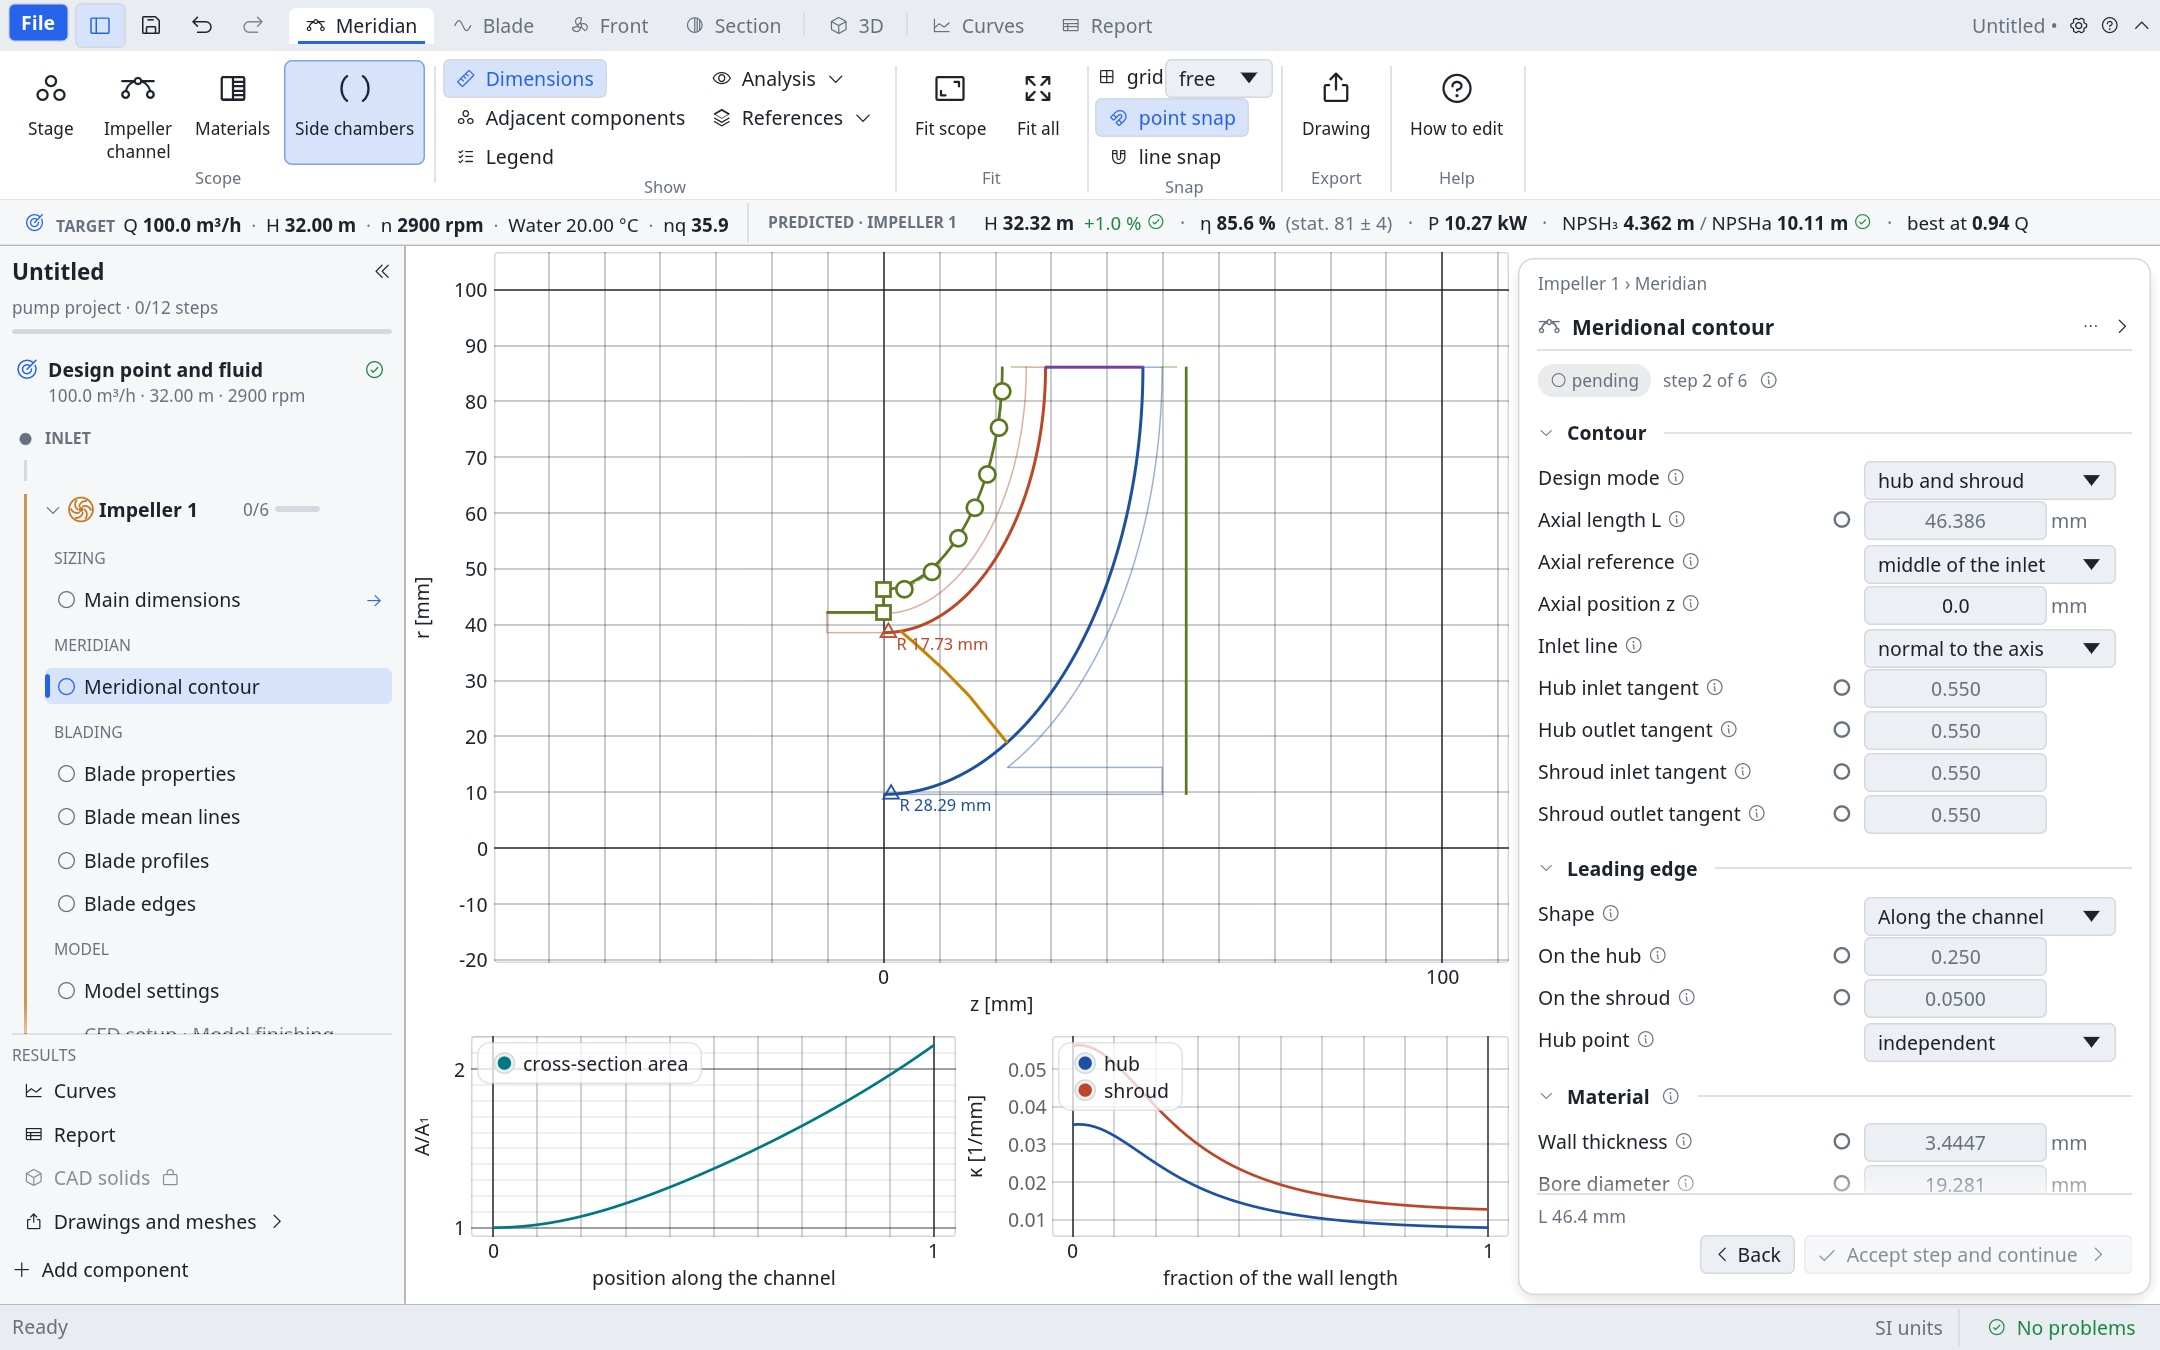
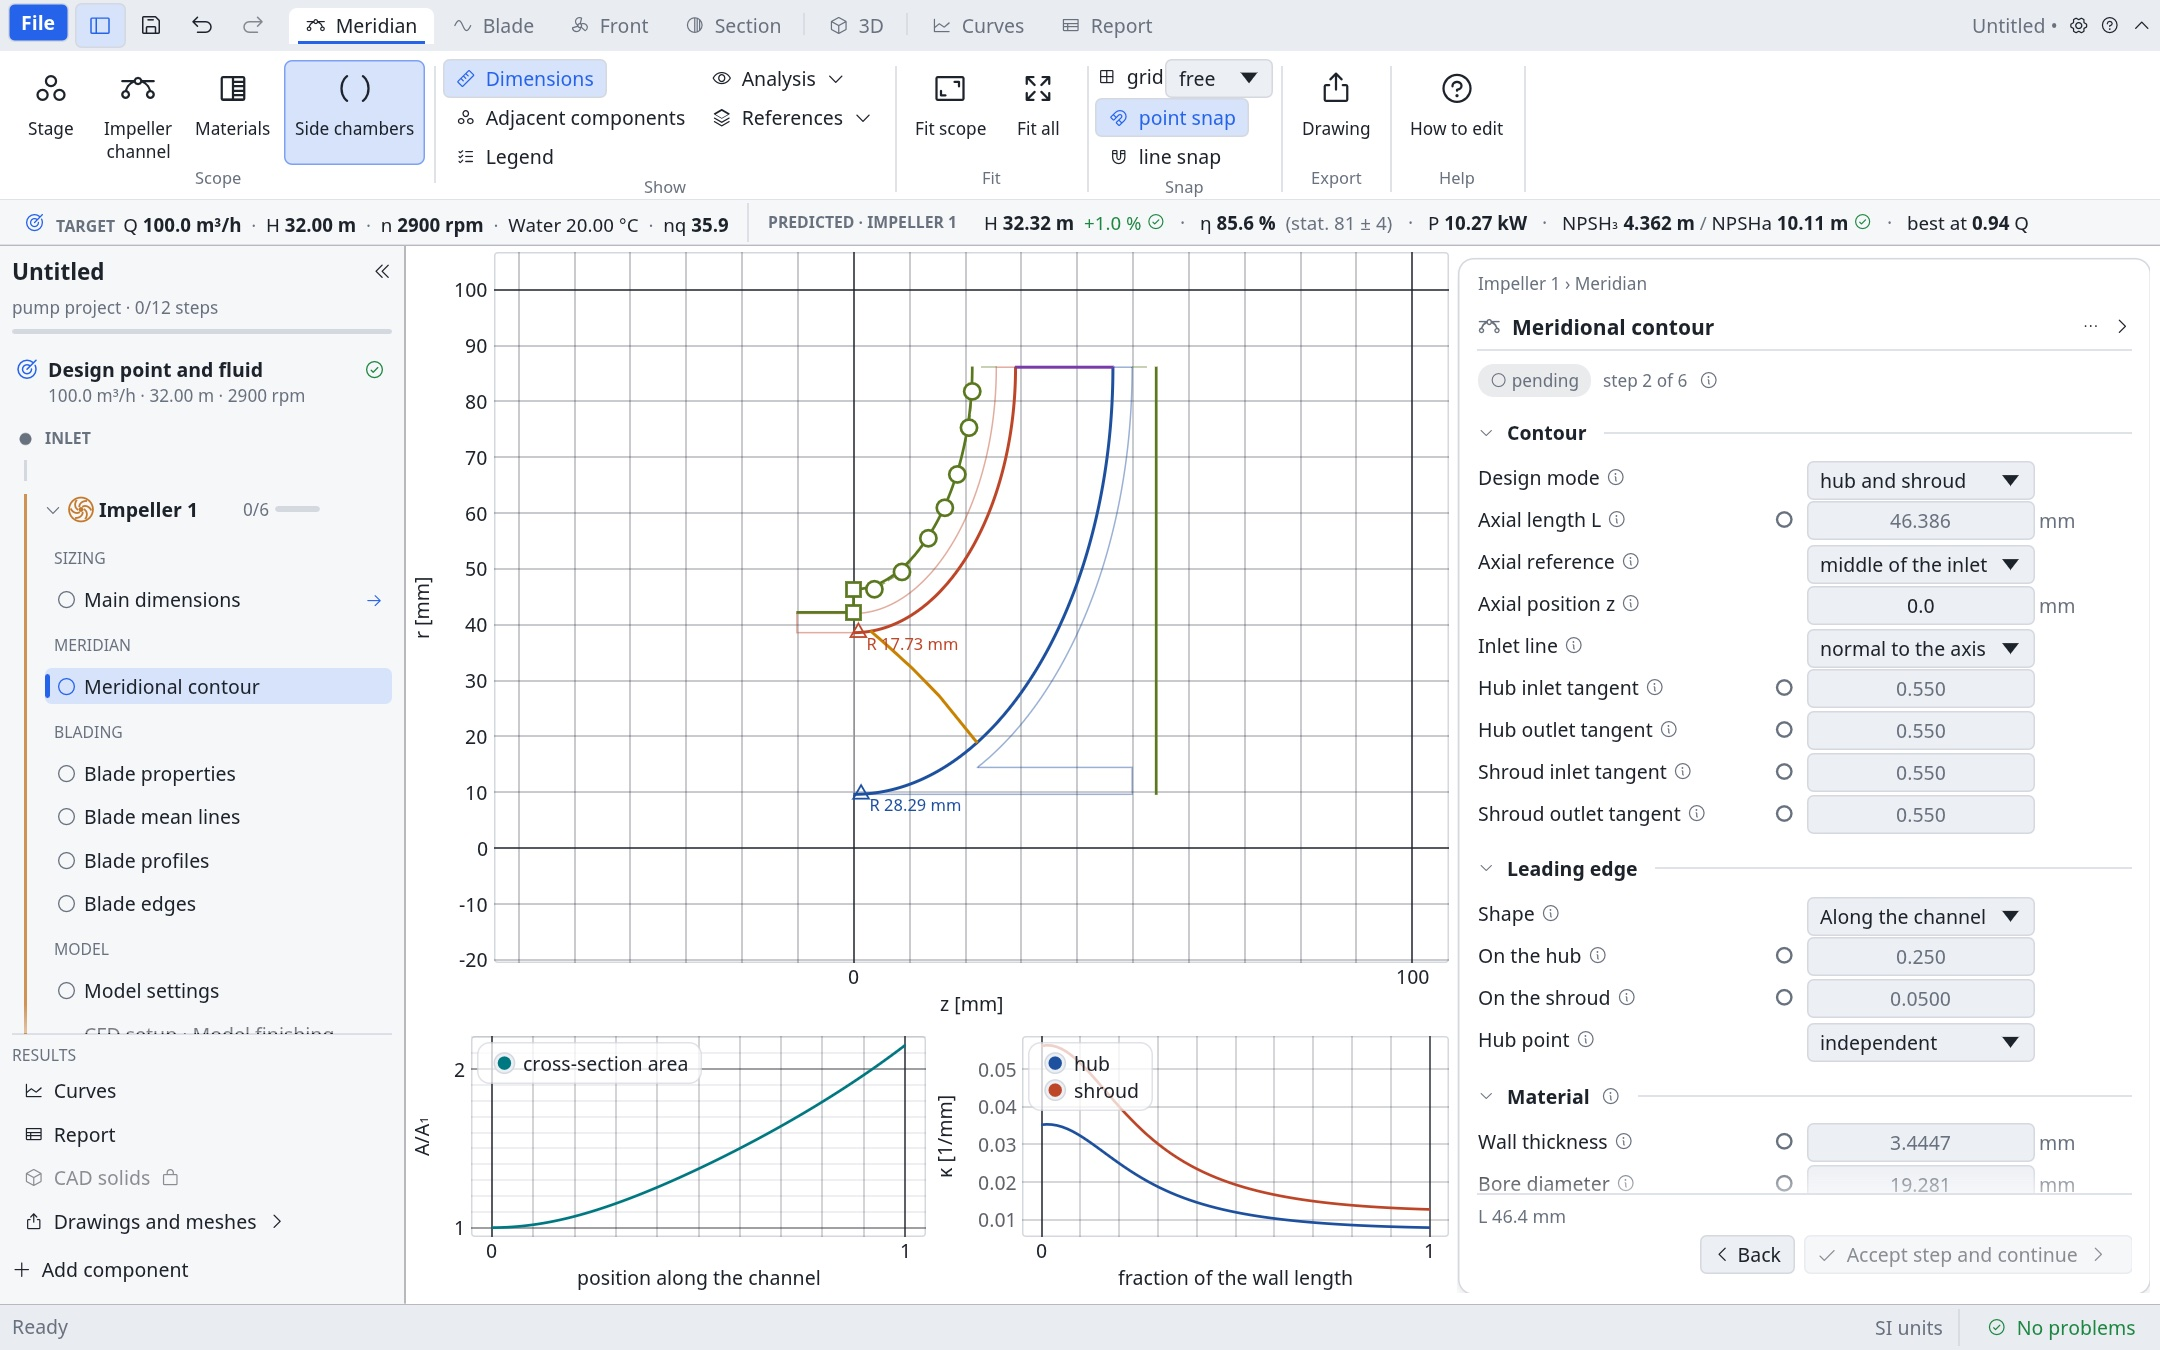
📝 docs: el panel de ancho fijo y alineado en el README y sus imágenes

diff --git a/README.md b/README.md
@@ -202,8 +202,10 @@ claro (también hay tema oscuro). El trabajo sigue los pasos de diseño de cada 
     pasos que le faltan al componente con los valores sugeridos.
 
   El panel flota sobre la vista sin reducirla: se pliega a una franja estrecha (con su
-  flecha o con Esc), se ensancha arrastrando su borde izquierdo y no bloquea las
-  vistas, así que con él abierto se siguen arrastrando los puntos del contorno. La
+  flecha o con Esc) y tiene el mismo ancho en todas las vistas y pasos; solo cambia
+  arrastrando su borde izquierdo, y ese ancho se recuerda entre sesiones. Todas sus
+  filas comparten columnas: etiquetas, campos, listas y unidades quedan alineados de
+  arriba abajo. No bloquea las vistas, así que con él abierto se siguen arrastrando los puntos del contorno. La
   vista 3D centra la pieza en la parte que queda libre.
 - **Barra de estado** (abajo): el último mensaje, las unidades y el contador de errores
   y avisos, que abre el panel de mensajes de todo el proyecto.
